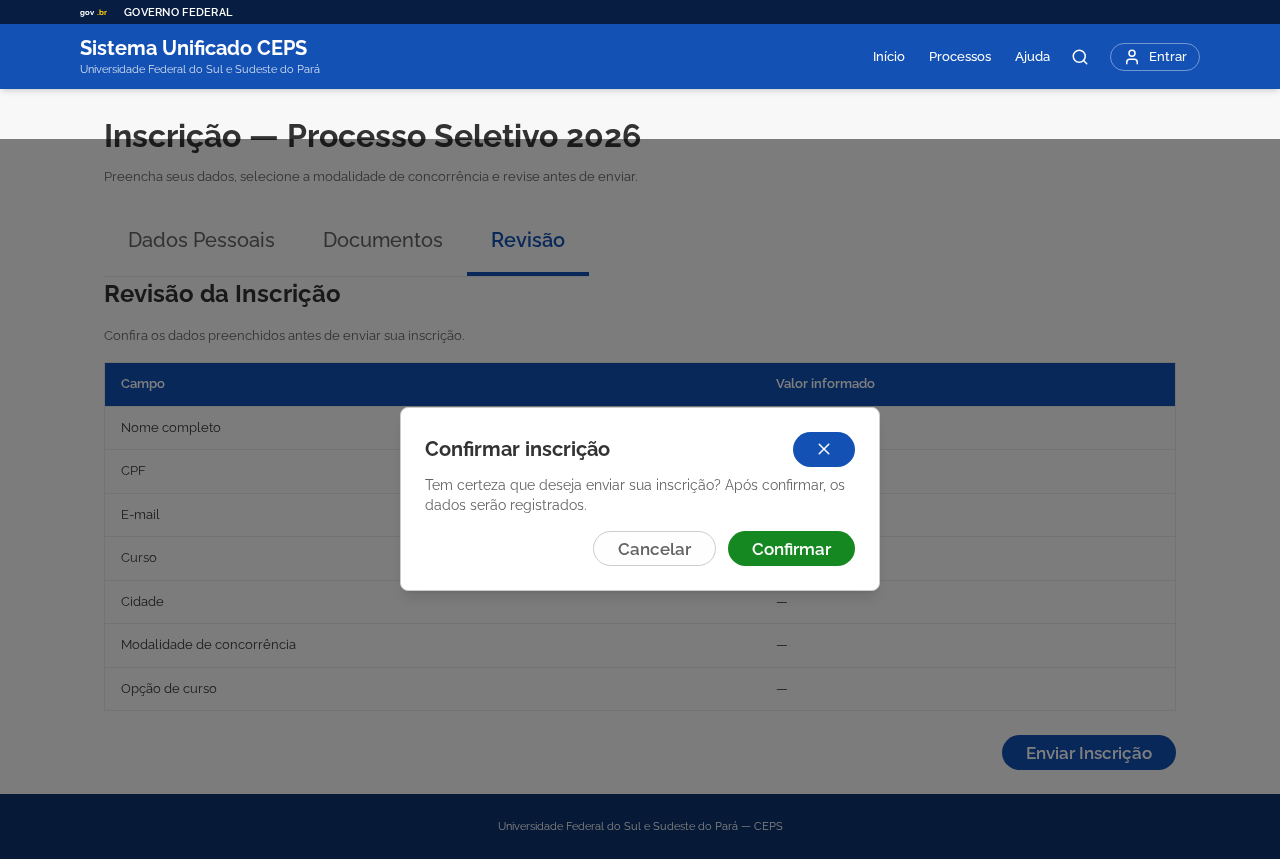
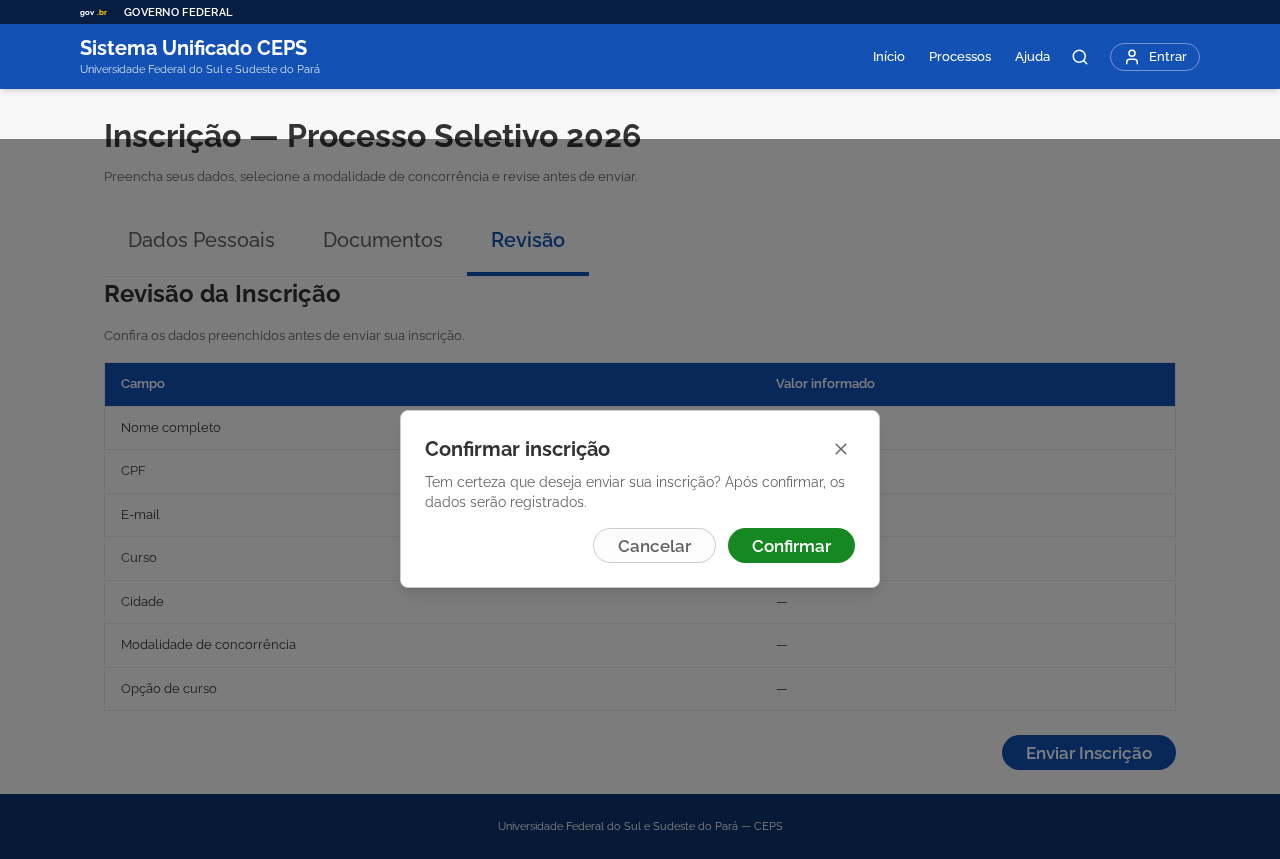
fix(poc-primeng): botão fechar dialog conforme Gov.br DS
Adicionar pcCloseButton no PassThrough do dialog: X simples cinza
(text-govbr-gray-60) sem fundo, hover com bg sutil (govbr-gray-2).
Substitui o botão azul preenchido padrão do PrimeNG.

Changed region(s): [[0.3125, 0.454, 0.6875, 0.6054], [0.3125, 0.6054, 0.6875, 0.6962]]

diff --git a/apps/poc-primeng/src/app/primeng-govbr-pt.ts b/apps/poc-primeng/src/app/primeng-govbr-pt.ts
@@ -172,6 +172,18 @@ export const govbrPassThrough = {
     footer: {
       class: 'flex justify-end gap-govbr-3 px-govbr-5 pb-govbr-5',
     },
+    pcCloseButton: {
+      root: {
+        class: [
+          'flex items-center justify-center',
+          'w-8 h-8 rounded-govbr-pill',
+          'bg-transparent text-govbr-gray-60',
+          'hover:bg-govbr-gray-2 hover:text-govbr-gray-80',
+          'cursor-pointer transition-colors',
+          FOCUS_CLASSES,
+        ].join(' '),
+      },
+    },
   },
 
   /* ──────────────────── CONFIRM DIALOG ──────────────────── */
